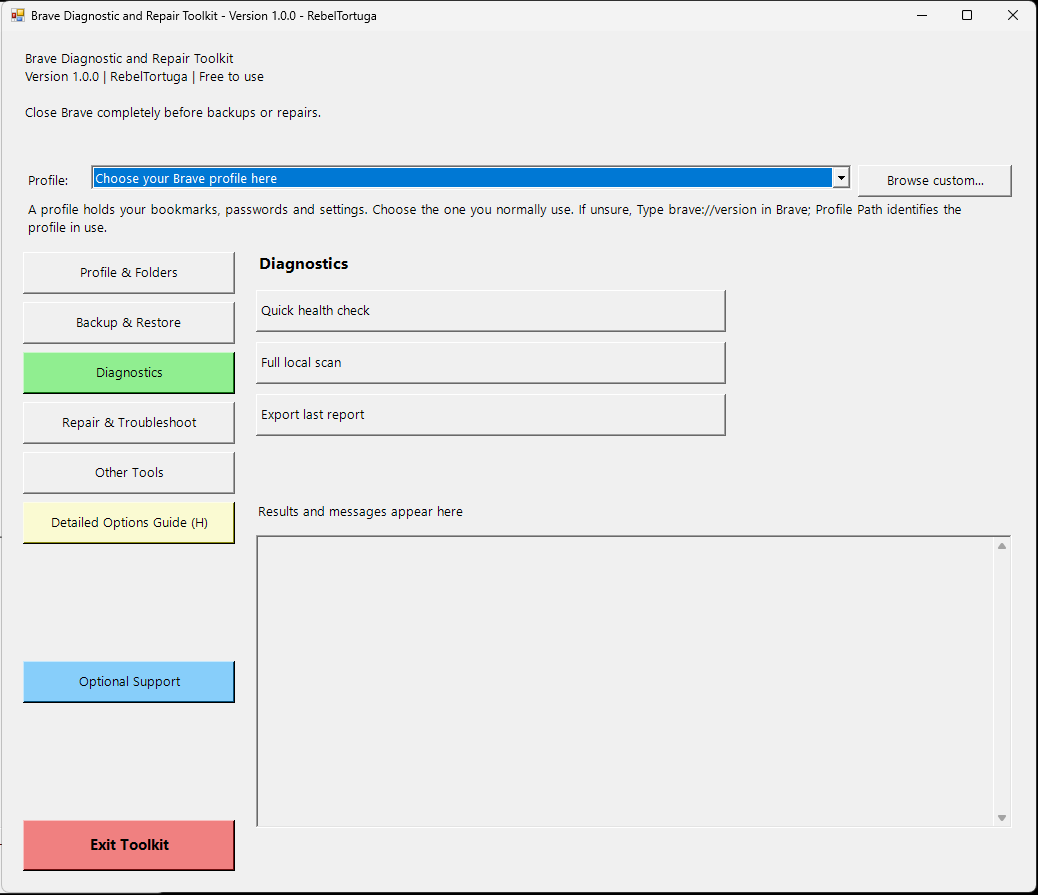
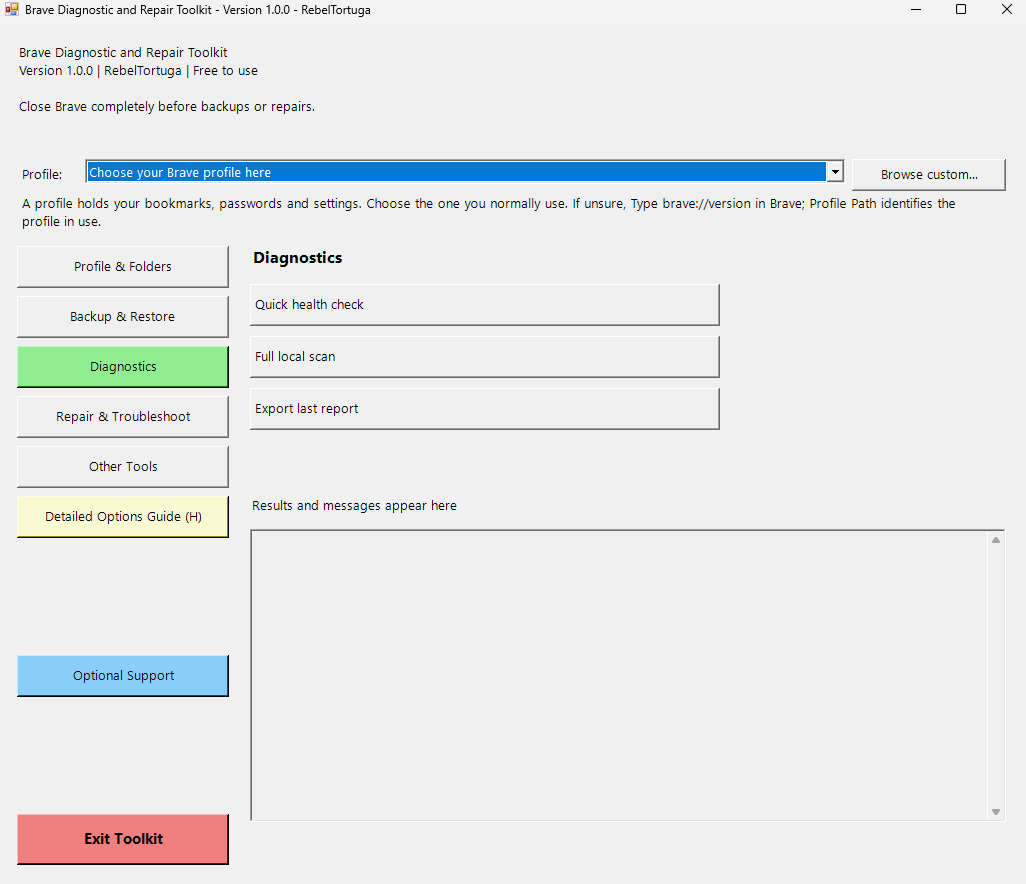
Update Brave toolkit screenshot (#1)
Publish the verified PSD-derived screenshot and matching README description while preserving assets/screenshot.png.

Changed region(s): [[0.0, 0.0, 1.0, 1.0], [0.0, 0.0, 0.3743, 0.1527], [0.9045, 0.0, 0.9357, 0.0305]]

diff --git a/README.md b/README.md
@@ -17,7 +17,7 @@ A Brave companion to the WoW Diagnostic and Repair Toolkit and Firefox Diagnosti
 
 ## Screenshot
 
-![Brave Diagnostic and Repair Toolkit main window, with local paths redacted](assets/screenshot.png)
+![Brave Diagnostic and Repair Toolkit main window with profile selector, diagnostic controls, and results panel](assets/screenshot.png)
 
 ## Start here
 1. Extract **all files** into a new folder.
